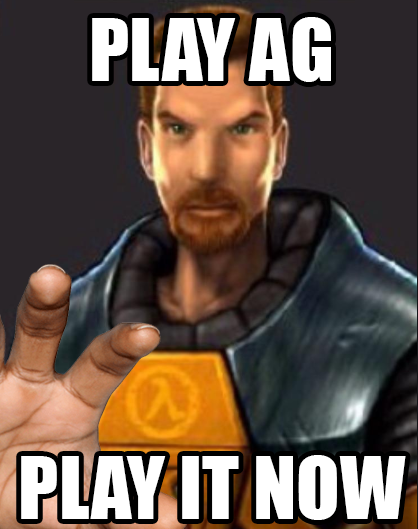
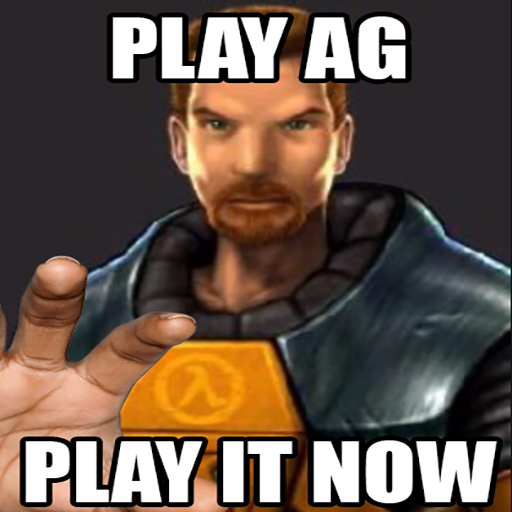
Changed Load texture to be PoT by default. Updated PlayAG texture to be PoT sized.

diff --git a/GSChaos/Utils.cpp b/GSChaos/Utils.cpp
@@ -3,7 +3,7 @@
 //STB
 #define STB_IMAGE_IMPLEMENTATION
 #include "stb_image.h"
-
+#define GL_REPEAT 0x2901
 #define GL_CLAMP_TO_EDGE 0x812F
 
 inline int	  ENTINDEX(edict_t* pEdict) { return (*g_engfuncs->pfnIndexOfEdict)(pEdict); }
@@ -379,14 +379,12 @@ void UTIL_HudMessage(edict_t* pEntity, const hudtextparms_t& textparms, const ch
 	MESSAGE_END();
 }
 
-
-#define TEXTURE_BASEID 12000
-
+int g_iTextureCounter;
 // Simple helper function to load an image into a OpenGL texture with common settings
 bool LoadTextureFromFile(const char* filename, GLuint* out_texture)
 {
 	// Load from file
-	static int counter;
+	//static int counter;
 
 	int image_width = 0;
 	int image_height = 0;
@@ -398,16 +396,18 @@ bool LoadTextureFromFile(const char* filename, GLuint* out_texture)
 	GLuint image_texture;
 
 	// xWhitey, thank you so much for that idea!
-	counter++;
-	image_texture = TEXTURE_BASEID + counter;
+	g_iTextureCounter++;
+	image_texture = TEXTURE_BASEID + g_iTextureCounter;
 
 	glBindTexture(GL_TEXTURE_2D, image_texture);
 
 	// Setup filtering parameters for display
 	glTexParameteri(GL_TEXTURE_2D, GL_TEXTURE_MIN_FILTER, GL_LINEAR);
 	glTexParameteri(GL_TEXTURE_2D, GL_TEXTURE_MAG_FILTER, GL_LINEAR);
-	glTexParameteri(GL_TEXTURE_2D, GL_TEXTURE_WRAP_S, GL_CLAMP_TO_EDGE); // This is required on WebGL for non power-of-two textures
-	glTexParameteri(GL_TEXTURE_2D, GL_TEXTURE_WRAP_T, GL_CLAMP_TO_EDGE); // Same
+	//glTexParameteri(GL_TEXTURE_2D, GL_TEXTURE_WRAP_S, GL_CLAMP_TO_EDGE); // This is required on WebGL for non power-of-two textures
+	glTexParameteri(GL_TEXTURE_2D, GL_TEXTURE_WRAP_S, GL_REPEAT);
+	//glTexParameteri(GL_TEXTURE_2D, GL_TEXTURE_WRAP_T, GL_CLAMP_TO_EDGE); // Same
+	glTexParameteri(GL_TEXTURE_2D, GL_TEXTURE_WRAP_T, GL_REPEAT);
 
 	// Upload pixels into texture
 #if defined(GL_UNPACK_ROW_LENGTH) && !defined(__EMSCRIPTEN__)
@@ -418,6 +418,37 @@ bool LoadTextureFromFile(const char* filename, GLuint* out_texture)
 
 	*out_texture = image_texture;
 
+	return true;
+}
+
+bool LoadTexturesFromFiles(const char* base_filename, byte frames, unsigned char** image_frames, int* image_width, int* image_height)
+{
+	if (frames < 1) return false;
+	int cur_image_width = 0;
+	int cur_image_height = 0;
+	char filename[256] = { 0 };
+	size_t baselen = strlen(base_filename);
+	strncpy_s(filename, 256, base_filename, 256);
+	
+	for (int i = 0; i < frames; i++)
+	{
+		sprintf_s(filename + baselen, 256 - baselen, "%03u", i);
+		unsigned char* image_data = stbi_load(filename, &cur_image_width, &cur_image_height, NULL, 1);
+		if (image_data == NULL)
+			return false;
+		image_frames[i] = image_data;
+		if (*image_width == 0) *image_width = cur_image_width;
+		if (*image_height == 0) *image_height = cur_image_height;
+		if (*image_width != cur_image_width || *image_height != cur_image_height)
+		{
+			for (int j = 0; j > -1; j--)
+			{
+				stbi_image_free(image_frames[j]);
+			}
+			image_frames = nullptr;
+			return false;
+		}
+	}
 	return true;
 }
 

diff --git a/GSChaos/Utils.h b/GSChaos/Utils.h
@@ -25,6 +25,8 @@
 #define FFADE_STAYOUT		0x0004		// ignores the duration, stays faded out until new ScreenFade message received
 #define FFADE_LONGFADE		0x0008		// used to indicate the fade can be longer than 16 seconds (added for czero)
 
+#define TEXTURE_BASEID 12000
+extern int g_iTextureCounter;
  // This structure is sent over the net to describe a screen fade event
 typedef struct
 {
@@ -74,6 +76,7 @@ void UTIL_ScreenFade(edict_t* pEntity, const Vector& color, float fadeTime, floa
 void UTIL_TakeDamage(entvars_t& pevInflictor, float flDamage, int bitsDamageType);
 void UTIL_HudMessage(edict_t* pEntity, const hudtextparms_t& textparms, const char* pMessage);
 bool LoadTextureFromFile(const char* filename, GLuint* out_texture);
+bool LoadTexturesFromFiles(const char* base_filename, byte frames, unsigned char** image_frames, int* image_width, int* image_height);
 float UTIL_Hue2RGB(float p, float q, float t);
 Vector UTIL_HSL2RGB(Vector _HSL);
 float UTIL_GetScreenCoord(float flValue);
